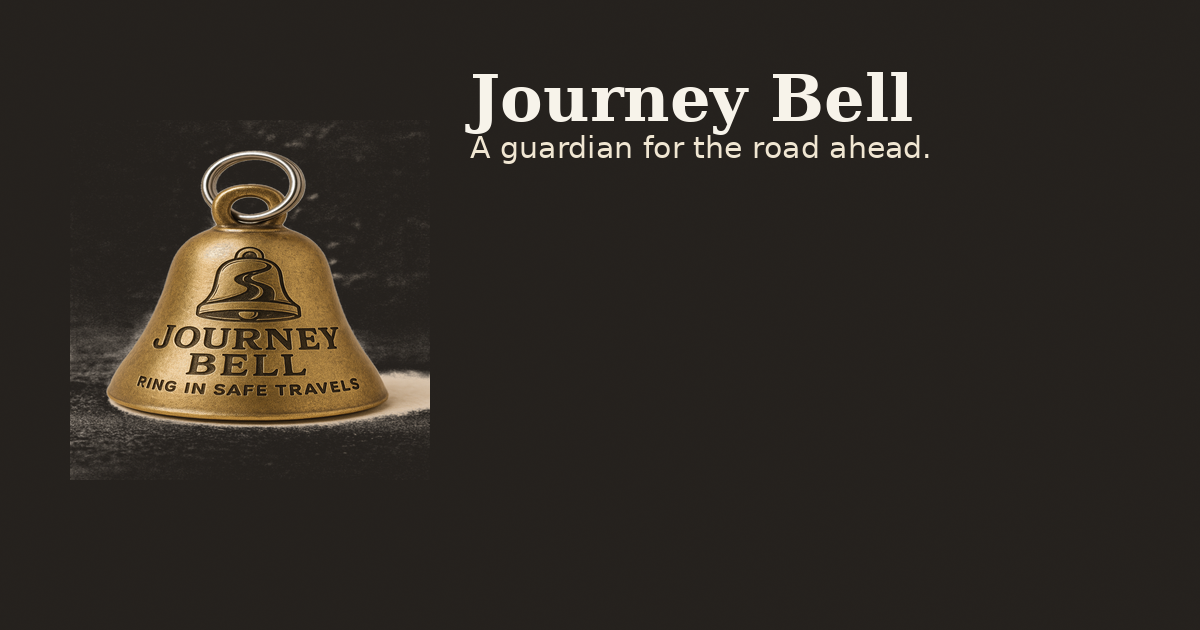
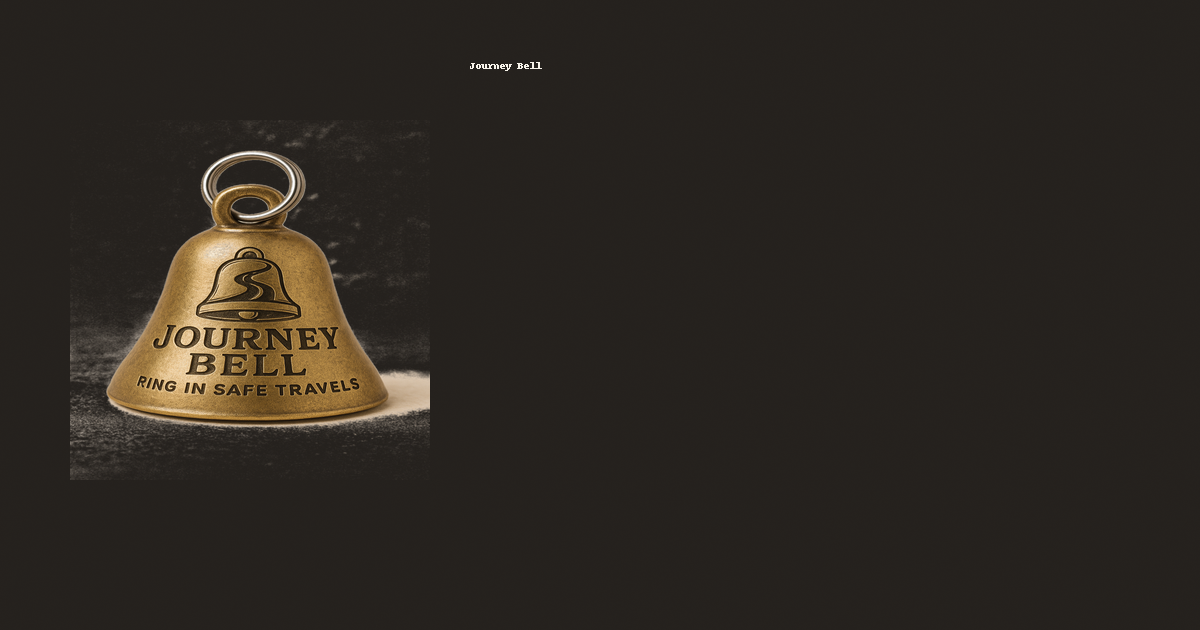
Add files via upload

Changed region(s): [[0.37, 0.0905, 0.7708, 0.2714]]

diff --git a/index.html b/index.html
@@ -1,73 +1,41 @@
 <!doctype html>
-<html lang="en">
-<head>
-<meta charset="utf-8">
-<meta name="viewport" content="width=device-width,initial-scale=1">
+<html lang="en"><head>
+<meta charset="utf-8"><meta name="viewport" content="width=device-width,initial-scale=1">
 <title>Journey Bell — Ring in Safe Travels</title>
 <meta name="description" content="A whimsical, vintage guardian bell for RVs and motorhomes.">
-<link rel="stylesheet" href="styles.css?v=1753896736">
-<link rel="icon" type="image/png" href="favicon.png?v=1753896736">
-<meta property="og:image" content="og-image.png?v=1753896736">
-</head>
-<body id="top">
+<link rel="stylesheet" href="styles.css?v=1753899911"><link rel="icon" type="image/png" href="favicon.png?v=1753899911">
+<meta property="og:image" content="og-image.png?v=1753899911">
+</head><body id="top">
 <header class="site-header">
-  <div class="brand">
-    <a href="index.html#top" aria-label="Journey Bell Home">
-      <span class="mini-bell">
-<svg width="26" height="26" viewBox="0 0 64 64" xmlns="http://www.w3.org/2000/svg" aria-hidden="true">
-  <defs>
-    <linearGradient id="g" x1="0" y1="0" x2="0" y2="1">
-      <stop offset="0" stop-color="#d9b776"/><stop offset="1" stop-color="#a77b3b"/>
-    </linearGradient>
-  </defs>
-  <path d="M32 10c-8 0-14 9-14 20h28C46 19 40 10 32 10z" fill="url(#g)"/>
-  <circle cx="32" cy="39" r="3.2" fill="#6f5125"/>
-</svg>
-</span>
-      <span class="wordmark">Journey Bell</span>
-    </a>
+  <div class="brand"><a href="index.html#top" aria-label="Journey Bell Home">
+    <img src="header-emblem.png?v=1753899911" class="emblem" alt="Journey Bell emblem"></a>
   </div>
-  <nav class="nav">
-    <a href="#story">Story</a>
-    <a href="#features">Features</a>
-    <a href="#preorder">Preorder</a>
-  </nav>
+  <nav class="nav"><a href="#story">Story</a><a href="#features">Features</a><a href="#preorder">Preorder</a></nav>
 </header>
-
 <section class="hero">
-  <img src="hero-bg.png?v=1753896736" class="bg" alt="">
-  <div class="scrim" aria-hidden="true"></div>
+  <img src="hero-bg.png?v=1753899911" class="bg" alt=""><div class="scrim" aria-hidden="true"></div>
   <div class="inner">
-    <div class="heading-wrap"><img src="usa-badge.png" class="badge-left" alt="Made in USA badge"><h1 style="position:relative; z-index:2;">Journey Bell</h1><img src="usa-badge.png" class="badge-right" alt="Made in USA badge"></div>
+    <h1>Journey Bell</h1>
     <p class="tag">A guardian for the road ahead.</p>
     <a href="#preorder" class="btn">Secure Your Bell Now — Don’t Let Road Gremlins Win!</a>
-    <img src="bell.png?v=1753896736" class="bell" alt="Journey Bell product">
-    <img src="usa-badge.png?v=1753896736" class="badge" alt="Made in the USA (tariff free)">
+    <img src="bell.png?v=1753899911" class="bell" alt="Journey Bell">
   </div>
 </section>
-
 <section id="story" class="story section">
   <h2>The Journey Begins</h2>
   <p>At campgrounds and truck stops, travelers whisper about <em>road gremlins</em>—little mischief‑makers who live for jammed slides, sneaky DEF warnings, clogged tanks, and the classic “our batteries are dead.”</p>
   <p>So a clever wanderer forged a brass bell tuned for the open road. Hang it near your wheels and let its chime warn the gremlins: <strong>move along.</strong> Every ring says, “Not today.”</p>
-  <p><strong>Made in the USA (tariff free!)</strong> and ready for a million miles of stories.</p>
+  <p><strong>Made in the USA</strong> and ready for a million miles of stories.</p>
 </section>
-
 <section id="features" class="features">
-  <div class="feature"><img src="bell.png?v=1753896736" alt=""><h3>Cast Brass</h3><p>Warm patina, rich tone, built to outlast the gremlins.</p></div>
-  <div class="feature"><img src="bell.png?v=1753896736" alt=""><h3>Adventure Ready</h3><p>Mount by your wheels or hitch—always on guard as you roam.</p></div>
-  <div class="feature"><img src="bell.png?v=1753896736" alt=""><h3>Legend Built In</h3><p>Every bell ships with the tale—great for gifting at camp.</p></div>
+  <div class="feature"><img src="bell.png?v=1753899911" alt=""><h3>Cast Brass</h3><p>Warm patina, rich tone, built to outlast the gremlins.</p></div>
+  <div class="feature"><img src="bell.png?v=1753899911" alt=""><h3>Adventure Ready</h3><p>Mount by your wheels or hitch—always on guard as you roam.</p></div>
+  <div class="feature"><img src="bell.png?v=1753899911" alt=""><h3>Legend Built In</h3><p>Every bell ships with the tale—great for gifting at camp.</p></div>
 </section>
-
-<section id="preorder" class="cta">
-  <h2>Preorder Yours Today</h2>
+<section id="preorder" class="cta"><h2>Preorder Yours Today</h2>
   <div class="price">$24.95 • Free U.S. Shipping on First Batch!</div>
   <iframe src="https://docs.google.com/forms/d/e/1FAIpQLSdsyVMPb6u2ghaYSKEGe4NBOldzY095Mm8oMlGvTX3-SIIOZw/viewform?embedded=true" allowfullscreen>Loading…</iframe>
-  <p class="after-submit-hint">After submitting, click <strong>Continue to the Thank‑You page</strong>.</p>
 </section>
-
-<footer class="footer">
-  <div>© <script>document.write(new Date().getFullYear())</script> Journey Bell • <a href="mailto:hello@thejourneybell.com">hello@thejourneybell.com</a></div>
-</footer>
-</body>
-</html>
+<footer class="footer"><div>© <script>document.write(new Date().getFullYear())</script> Journey Bell • <a href="mailto:hello@thejourneybell.com">hello@thejourneybell.com</a></div></footer>
+<script src="main.js?v=1753899911"></script>
+</body></html>

diff --git a/styles.css b/styles.css
@@ -4,23 +4,20 @@
 body{font-family:Inter,Arial,sans-serif;background:var(--cream);color:var(--ink);line-height:1.6}
 /* Header */
 .site-header{position:sticky;top:0;z-index:1000;display:flex;align-items:center;justify-content:space-between;background:rgba(18,16,14,.92);backdrop-filter:blur(6px);padding:10px 18px;border-bottom:0}
-.brand{display:flex;align-items:center;gap:10px}
-.brand a{text-decoration:none;display:flex;align-items:center;gap:8px}
-.brand .mini-bell{height:28px;width:auto;display:block;filter:drop-shadow(0 2px 3px rgba(0,0,0,.3))}
-.brand .wordmark{font-family:Georgia,serif;font-weight:900;color:#f0e9e1;font-size:20px}
+.brand a{display:flex;align-items:center;gap:10px;text-decoration:none}
+.brand .emblem{height:46px;display:block}
 .nav a{color:#f0e9e1;margin-left:16px;font-weight:600;text-decoration:none}
 .nav a:hover{color:var(--brass)}
 /* HERO */
 .hero{position:relative;min-height:94vh;display:flex;align-items:center;justify-content:center;overflow:hidden}
 .hero .bg{position:absolute;inset:0;width:100%;height:100%;object-fit:cover;filter:contrast(1.05) brightness(.9)}
 .hero .scrim{position:absolute;inset:0;background:radial-gradient(ellipse at 50% 38%, rgba(0,0,0,.42) 0, rgba(0,0,0,.66) 55%, rgba(0,0,0,.86) 100%)}
-.hero .inner{position:relative;z-index:2;text-align:center;max-width:1000px;margin-top:6vh}
+.hero .inner{position:relative;z-index:2;text-align:center;max-width:1000px;margin-top:8vh}
 .hero h1{font-size:clamp(44px,8vw,110px);font-weight:900;color:#fff;letter-spacing:.3px;text-shadow:0 12px 26px rgba(0,0,0,.6)}
 .hero .tag{color:#fff;opacity:.95;margin-top:12px;font-size:clamp(18px,2.2vw,24px);text-shadow:0 5px 14px rgba(0,0,0,.6)}
 .btn{display:inline-block;margin-top:22px;background:var(--brass);color:#fff;font-weight:800;font-size:18px;padding:14px 26px;border-radius:12px;box-shadow:0 12px 28px rgba(0,0,0,.45)}
 .btn:hover{background:var(--brass-deep)}
-.hero .bell{width:min(36vw,480px);margin-top:34px;filter:drop-shadow(0 16px 30px rgba(0,0,0,.55))}
-.hero .badge{width:150px;margin-top:8px;filter:drop-shadow(0 6px 10px rgba(0,0,0,.25))}
+.hero .bell{width:min(13vw,180px);margin-top:34px;filter:drop-shadow(0 16px 30px rgba(0,0,0,.55))}
 /* Sections */
 .section{padding:72px 20px}.story{text-align:center;background:var(--cream)}
 .story h2{font-size:clamp(30px,3.8vw,44px);font-weight:900;margin-bottom:14px}
@@ -32,22 +29,6 @@ body{font-family:Inter,Arial,sans-serif;background:var(--cream);color:var(--ink)
 .cta{text-align:center;background:var(--brass);color:#fff;padding:70px 20px}
 .cta h2{font-size:clamp(26px,3vw,36px);font-weight:900}.cta .price{font-size:22px;margin:10px 0}
 .cta iframe{width:100%;max-width:650px;height:560px;border:none;margin-top:16px;background:#fff;border-radius:12px;box-shadow:0 8px 24px rgba(0,0,0,.25)}
-.after-submit-hint{margin-top:10px;font-size:14px;opacity:.9}
-/* Footer */
 .footer{text-align:center;padding:28px 20px;background:#1c1a16;color:#aaa;font-size:14px;border-top:1px solid rgba(255,255,255,.06)}
 .footer a{color:#ddd}
-@media (max-width:900px){.brand .wordmark{display:none}.hero{min-height:92vh}.hero .bell{width:min(54vw,400px)}.hero .badge{width:132px}}
-
-/* Heading-embedded badges */
-.hero .heading-wrap{position:relative; display:inline-block}
-.hero .badge-left, .hero .badge-right{
-  position:absolute; top:50%; transform:translateY(-50%);
-  width:110px; opacity:.55; filter:drop-shadow(0 6px 10px rgba(0,0,0,.25));
-  z-index:1;
-}
-.hero .badge-left{ right:100%; margin-right:18px; }
-.hero .badge-right{ left:100%; margin-left:18px; }
-
-@media (max-width:900px){
-  .hero .badge-left, .hero .badge-right{ width:70px; opacity:.4 }
-}
+@media (max-width:900px){.hero{min-height:92vh}.hero .bell{width:min(54vw,200px)}}

diff --git a/thank-you.html b/thank-you.html
@@ -1,1 +1,8 @@
-<h1>Thanks!</h1><p>Your order is in.</p><a href='index.html#top'>Back to Home</a>
+<!doctype html><meta charset="utf-8">
+<title>Thanks — Journey Bell</title><meta name="viewport" content="width=device-width,initial-scale=1">
+<link rel="stylesheet" href="styles.css">
+<div style="min-height:90vh;display:flex;align-items:center;justify-content:center;flex-direction:column;text-align:center;padding:20px">
+  <h1>Thanks for Preordering!</h1>
+  <p>Your order has been received. Road gremlins don’t stand a chance now. 🛎</p>
+  <p><a href="index.html#top" class="btn" style="text-decoration:none">Back to Homepage</a></p>
+</div>

diff --git a/main.js b/main.js
@@ -1,0 +1,7 @@
+
+document.querySelectorAll('a[href^="#"]').forEach(a=>{
+  a.addEventListener('click', e=>{
+    const el = document.querySelector(a.getAttribute('href'));
+    if (el){ e.preventDefault(); el.scrollIntoView({behavior:'smooth'}); }
+  });
+});
